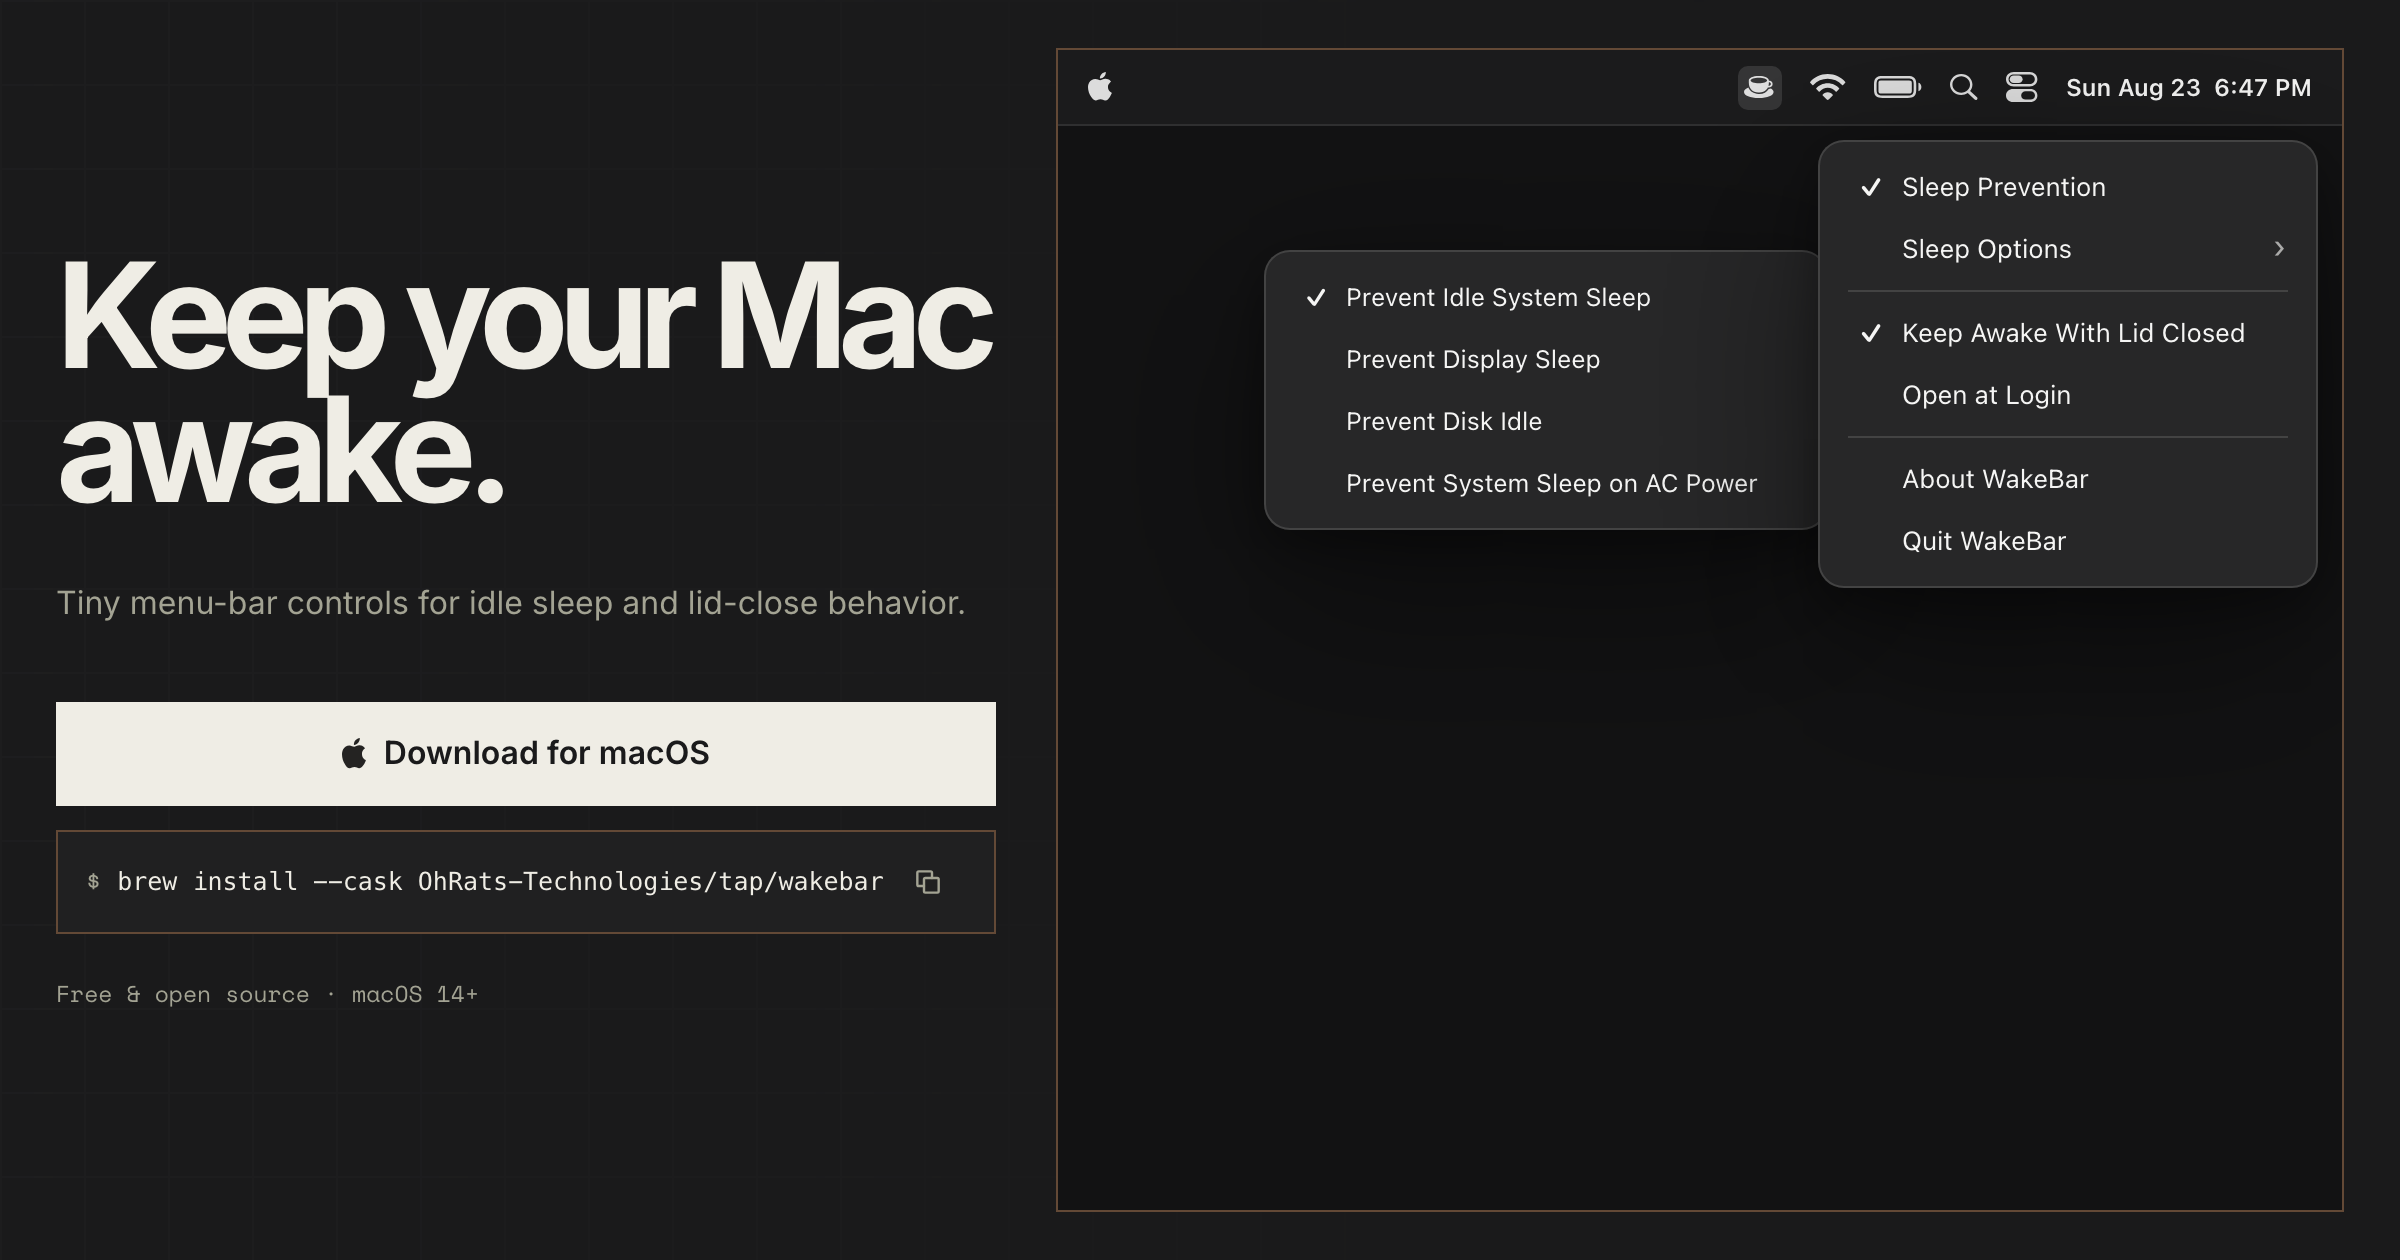
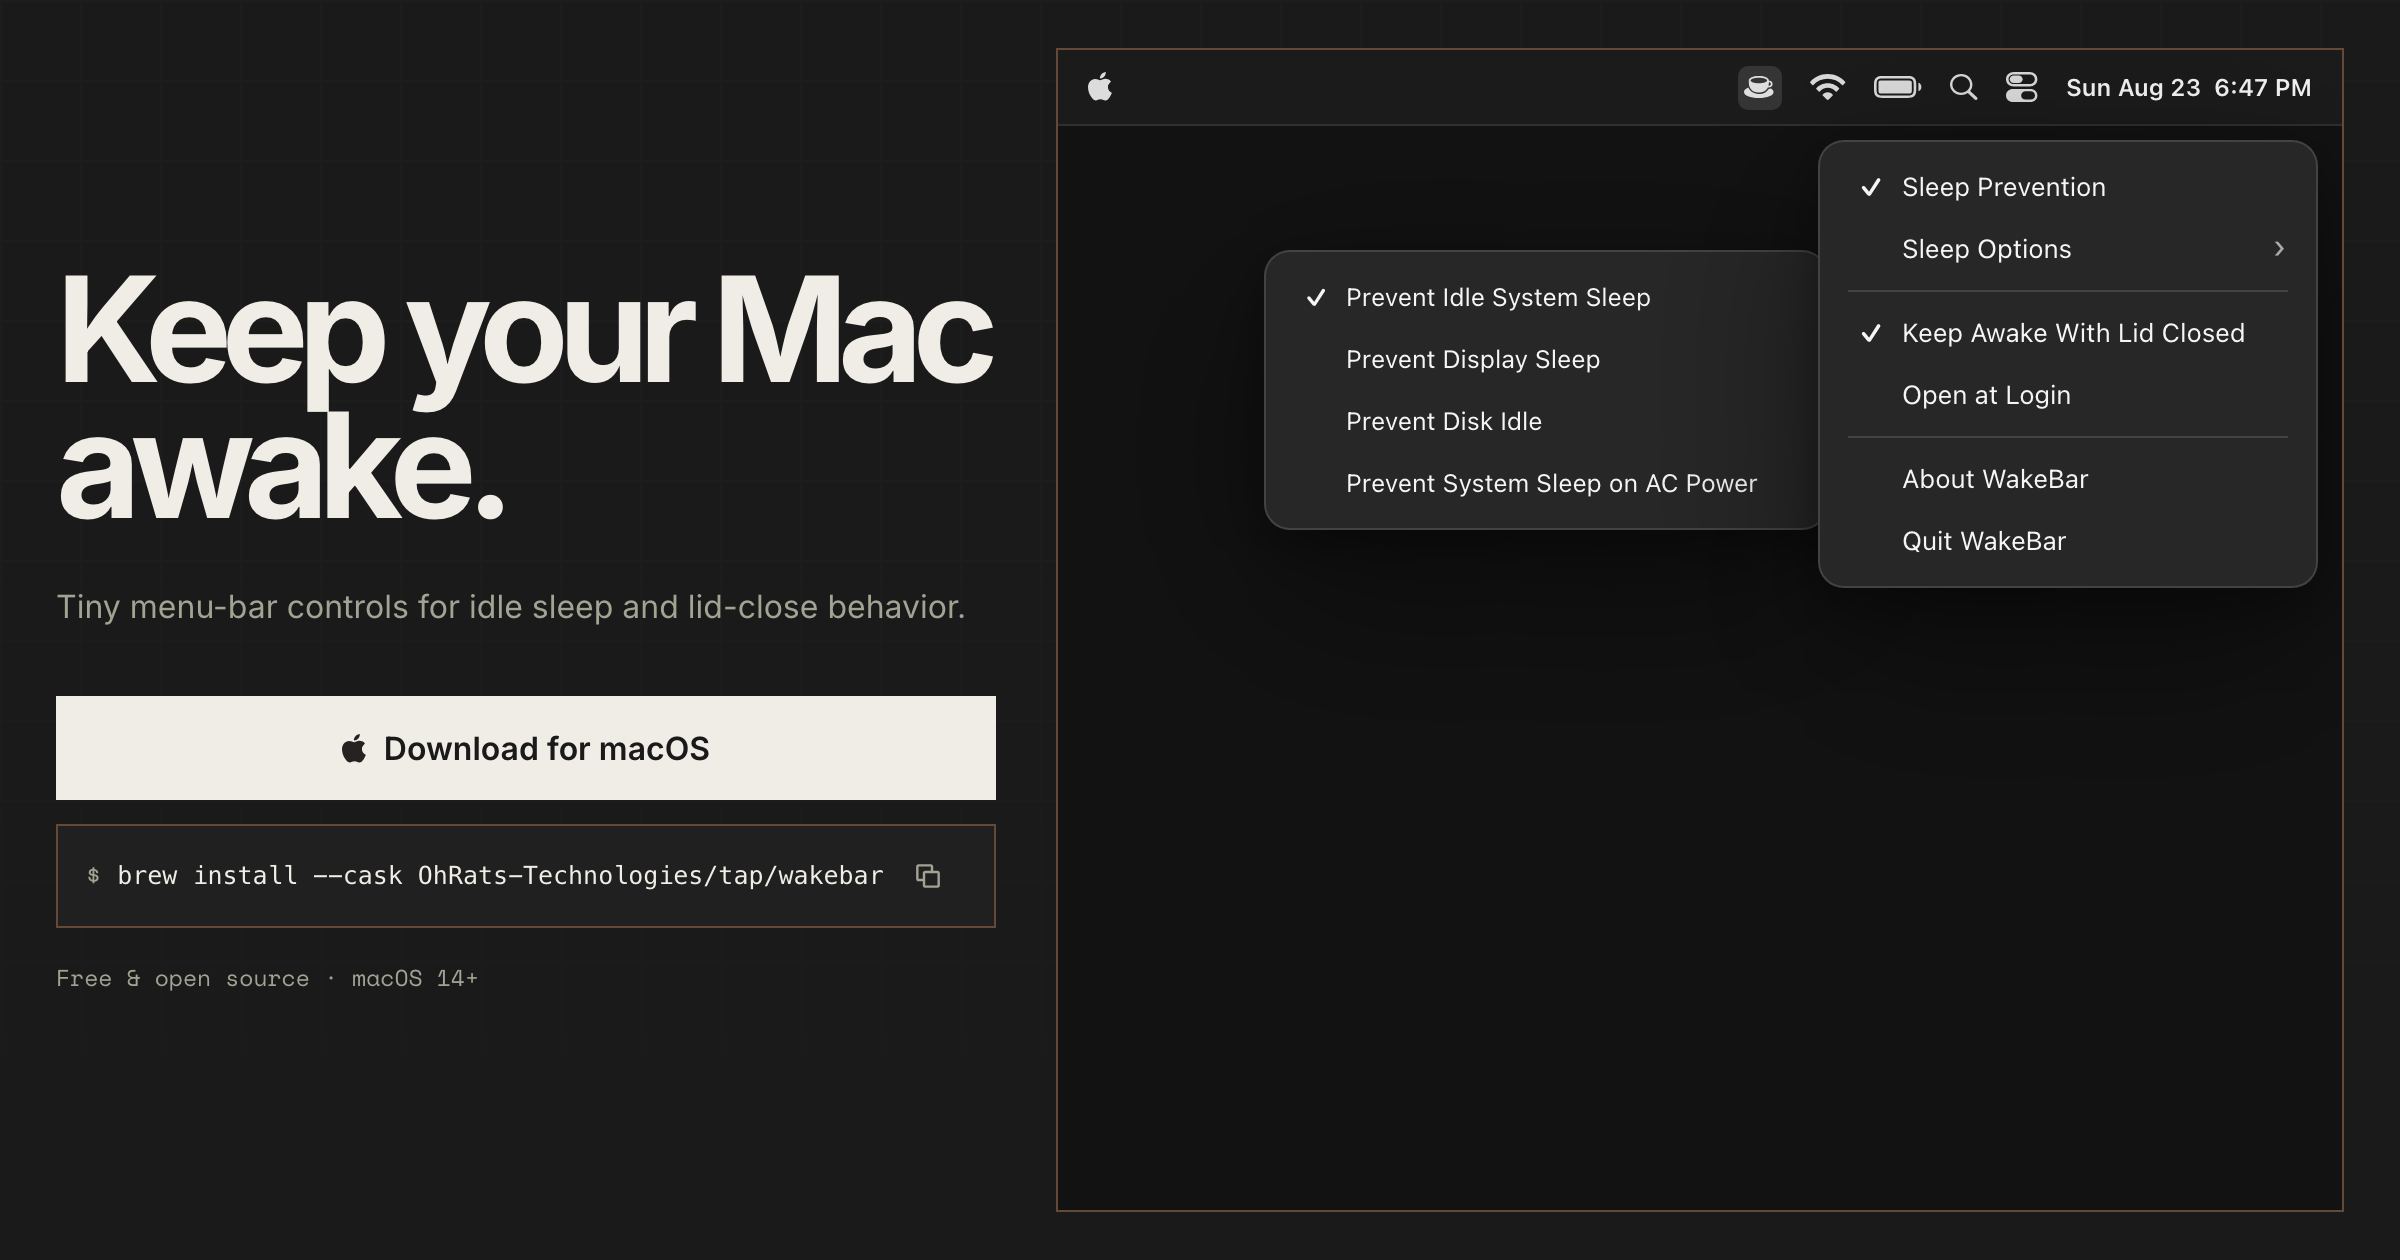
Simplify WakeBar hero layout

diff --git a/site/index.html b/site/index.html
@@ -50,14 +50,12 @@
     <link href="https://fonts.googleapis.com/css2?family=Inter:wght@400;500;600;700&family=Space+Mono:wght@400;700&display=swap" rel="stylesheet">
     <style>
         :root {
-            --page-max: 1400px;
             --mock-bg: #d9d7d0;
             --mock-bar: rgba(246, 246, 244, 0.84);
             --mock-panel: rgba(246, 246, 245, 0.94);
             --mock-panel-border: rgba(0, 0, 0, 0.16);
             --mock-text: #171717;
             --mock-muted: #6d6d6d;
-            --mock-hover: rgba(0, 0, 0, 0.06);
             --mock-shadow: 0 28px 70px rgba(35, 29, 24, 0.24), 0 8px 20px rgba(35, 29, 24, 0.12);
         }
 
@@ -68,16 +66,13 @@
             --mock-panel-border: rgba(255, 255, 255, 0.13);
             --mock-text: #f5f5f4;
             --mock-muted: #ababaa;
-            --mock-hover: rgba(255, 255, 255, 0.07);
             --mock-shadow: 0 30px 90px rgba(0, 0, 0, 0.48), 0 8px 26px rgba(0, 0, 0, 0.32);
         }
 
-        body {
-            overflow-x: hidden;
-        }
-
         .primary-button {
-            display: inline-flex;
+            min-height: 52px;
+            padding: 0 1.5rem;
+            display: flex;
             align-items: center;
             justify-content: center;
             gap: 9px;
@@ -85,20 +80,16 @@
             background: var(--or-text);
             color: var(--or-bg);
             font-weight: 600;
-            transition: transform 160ms ease, opacity 160ms ease, background-color 0.3s ease, color 0.3s ease;
+            transition: background-color 0.3s ease, color 0.3s ease, opacity 0.2s ease;
         }
 
         .primary-button:hover {
-            transform: translateY(-1px);
-            opacity: 0.88;
+            opacity: 0.9;
         }
 
         .hero {
             position: relative;
-            min-height: calc(100vh - 4rem);
             border-bottom: 1px solid var(--or-border);
-            display: flex;
-            align-items: center;
             overflow: hidden;
             transition: border-color 0.3s ease;
         }
@@ -106,26 +97,27 @@
         .grid {
             position: absolute;
             inset: 0;
-            background-size: 42px 42px;
+            background-size: 40px 40px;
             background-image:
                 linear-gradient(to right, var(--or-grid) 1px, transparent 1px),
                 linear-gradient(to bottom, var(--or-grid) 1px, transparent 1px);
-            mask-image: linear-gradient(to right, rgba(0, 0, 0, 0.7), transparent 72%);
-            -webkit-mask-image: linear-gradient(to right, rgba(0, 0, 0, 0.7), transparent 72%);
-            opacity: 0.35;
+            mask-image: linear-gradient(to bottom, black 40%, transparent 100%);
+            -webkit-mask-image: linear-gradient(to bottom, black 40%, transparent 100%);
+            opacity: 0.2;
             pointer-events: none;
         }
 
         .hero-inner {
             position: relative;
             width: 100%;
-            max-width: var(--page-max);
+            max-width: 1400px;
+            min-height: calc(100svh - 4rem);
             margin: 0 auto;
-            padding: 84px 28px 92px;
+            padding-inline: 1.5rem;
             display: grid;
-            grid-template-columns: minmax(0, 1fr) minmax(520px, 1fr);
+            grid-template-columns: repeat(2, minmax(0, 1fr));
             align-items: center;
-            gap: clamp(48px, 7vw, 112px);
+            gap: 4rem;
         }
 
         .hero-copy {
@@ -142,7 +134,7 @@
 
         .lede {
             max-width: 620px;
-            margin-top: 30px;
+            margin-top: 1.5rem;
             color: var(--or-text-muted);
             font-size: clamp(1rem, 1.3vw, 1.25rem);
             line-height: 1.65;
@@ -150,28 +142,25 @@
 
         .install-row {
             min-width: 0;
-            margin-top: 36px;
-            display: flex;
-            flex-wrap: wrap;
-            align-items: stretch;
-            gap: 12px;
+            margin-top: 2rem;
+            display: grid;
+            gap: 0.75rem;
         }
 
-        .primary-button {
-            min-height: 52px;
-            padding: 0 22px;
+        .primary-button,
+        .brew {
+            width: 100%;
         }
 
         .brew {
             min-width: 0;
             min-height: 52px;
-            max-width: 100%;
-            padding: 0 15px 0 18px;
+            padding: 0 1rem;
             border: 1px solid var(--or-border);
             background: var(--or-surface);
             display: flex;
             align-items: center;
-            gap: 12px;
+            gap: 0.75rem;
             color: var(--or-text);
             font-family: var(--or-font-mono);
             font-size: 0.78rem;
@@ -206,28 +195,26 @@
         }
 
         .meta {
-            margin-top: 21px;
+            margin-top: 1rem;
             font-family: var(--or-font-mono);
             font-size: 0.72rem;
             color: var(--or-text-muted);
         }
 
         .product-visual {
-            position: relative;
             min-width: 0;
         }
 
         .mac-shell {
             position: relative;
-            width: min(760px, 100%);
-            margin-left: auto;
+            width: 100%;
             border: 1px solid var(--or-border);
             transition: border-color 0.3s ease;
         }
 
         .mac-screen {
             position: relative;
-            height: 535px;
+            aspect-ratio: 16 / 10;
             overflow: hidden;
             background: var(--mock-bg);
             color: var(--mock-text);
@@ -342,10 +329,6 @@
             gap: 5px;
         }
 
-        .menu-row:hover {
-            background: var(--mock-hover);
-        }
-
         .menu-row .check {
             font-weight: 700;
             text-align: center;
@@ -386,12 +369,12 @@
         }
 
         .site-footer {
-            max-width: var(--page-max);
+            max-width: 1400px;
             margin: 0 auto;
-            padding: 25px 28px 30px;
+            padding: 1.5rem;
             display: flex;
             justify-content: space-between;
-            gap: 20px;
+            gap: 1.5rem;
             color: var(--or-text-muted);
             font-family: var(--or-font-mono);
             font-size: 0.68rem;
@@ -400,60 +383,34 @@
 
         .footer-links {
             display: flex;
-            gap: 20px;
+            gap: 1.5rem;
         }
 
         .footer-links a:hover {
             color: var(--or-text);
         }
 
-        @media (max-width: 1100px) {
-            .hero {
-                min-height: auto;
-            }
-
+        @media (max-width: 1200px) {
             .hero-inner {
                 grid-template-columns: 1fr;
-                padding-top: 74px;
-                gap: 58px;
+                min-height: 0;
+                padding-block: 4rem;
+                gap: 4rem;
             }
 
             .hero-copy {
-                max-width: 760px;
-            }
-
-            .install-row {
-                max-width: 620px;
-                display: grid;
-                grid-template-columns: 1fr;
-            }
-
-            .primary-button,
-            .brew {
-                width: 100%;
-            }
-
-            h1 {
-                max-width: 800px;
+                max-width: 48rem;
             }
 
             .mac-shell {
-                margin: 0;
-                width: 100%;
+                max-width: 48rem;
             }
         }
 
         @media (max-width: 720px) {
-            .hero-inner,
-            .site-footer {
-                padding-left: 18px;
-                padding-right: 18px;
-            }
-
             .hero-inner {
-                padding-top: 60px;
-                padding-bottom: 62px;
-                gap: 46px;
+                padding-block: 3rem;
+                gap: 3rem;
             }
 
             h1 {
@@ -462,23 +419,7 @@
             }
 
             .lede {
-                margin-top: 23px;
                 font-size: 0.98rem;
-            }
-
-            .install-row {
-                margin-top: 29px;
-                display: grid;
-                grid-template-columns: 1fr;
-            }
-
-            .primary-button,
-            .brew {
-                width: 100%;
-            }
-
-            .brew {
-                min-width: 0;
             }
 
             .brew code {
@@ -486,6 +427,7 @@
             }
 
             .mac-screen {
+                aspect-ratio: auto;
                 height: 440px;
             }
 
